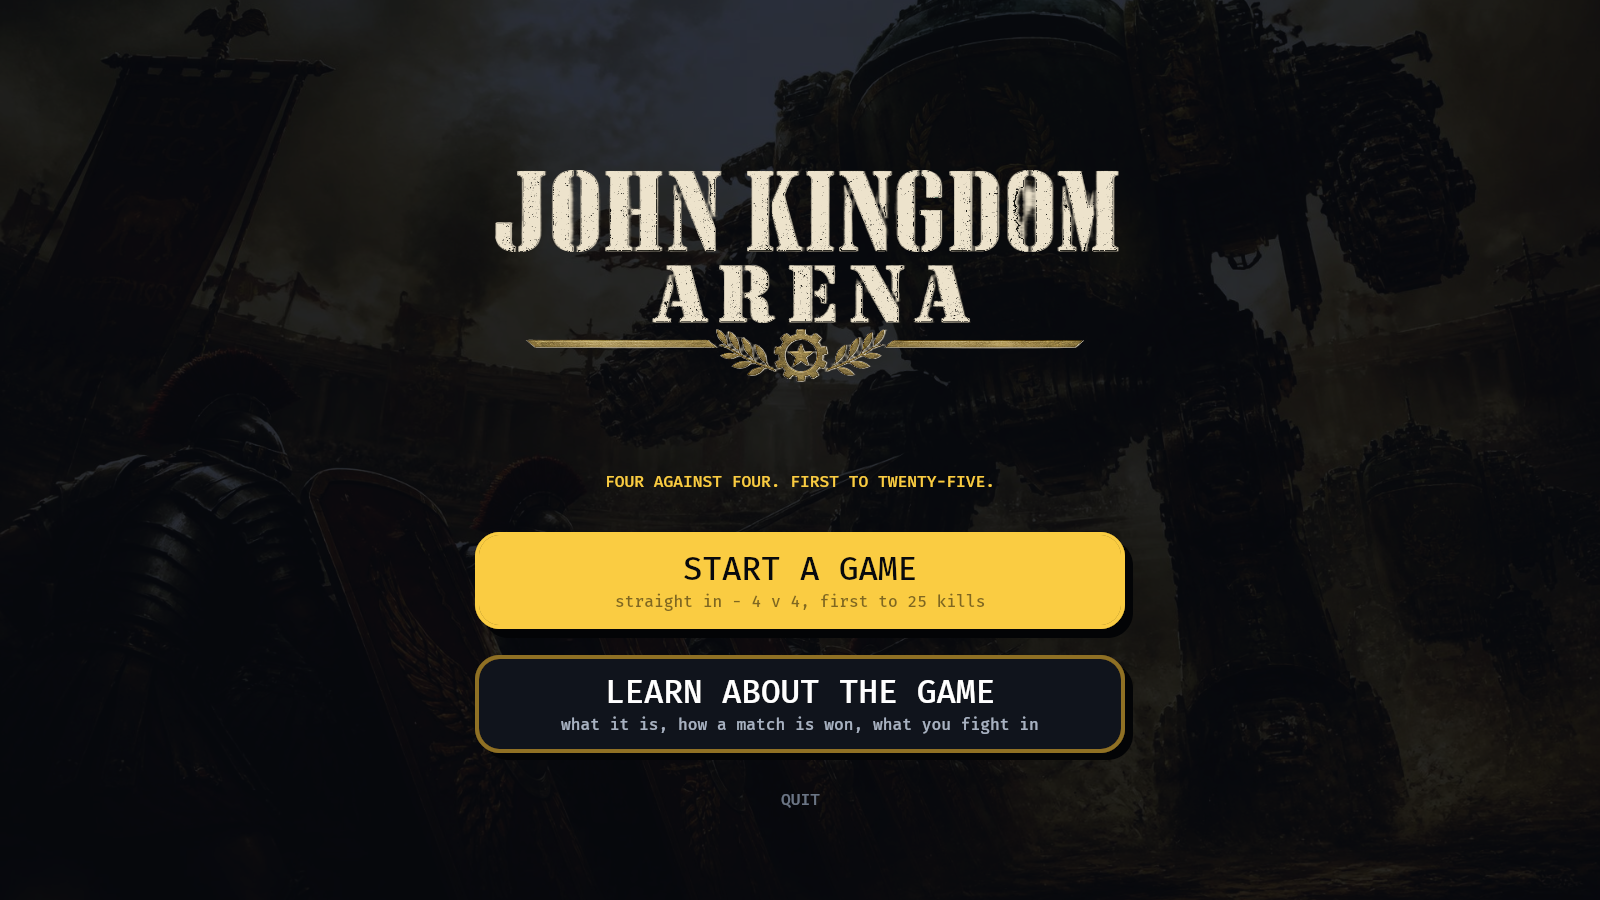
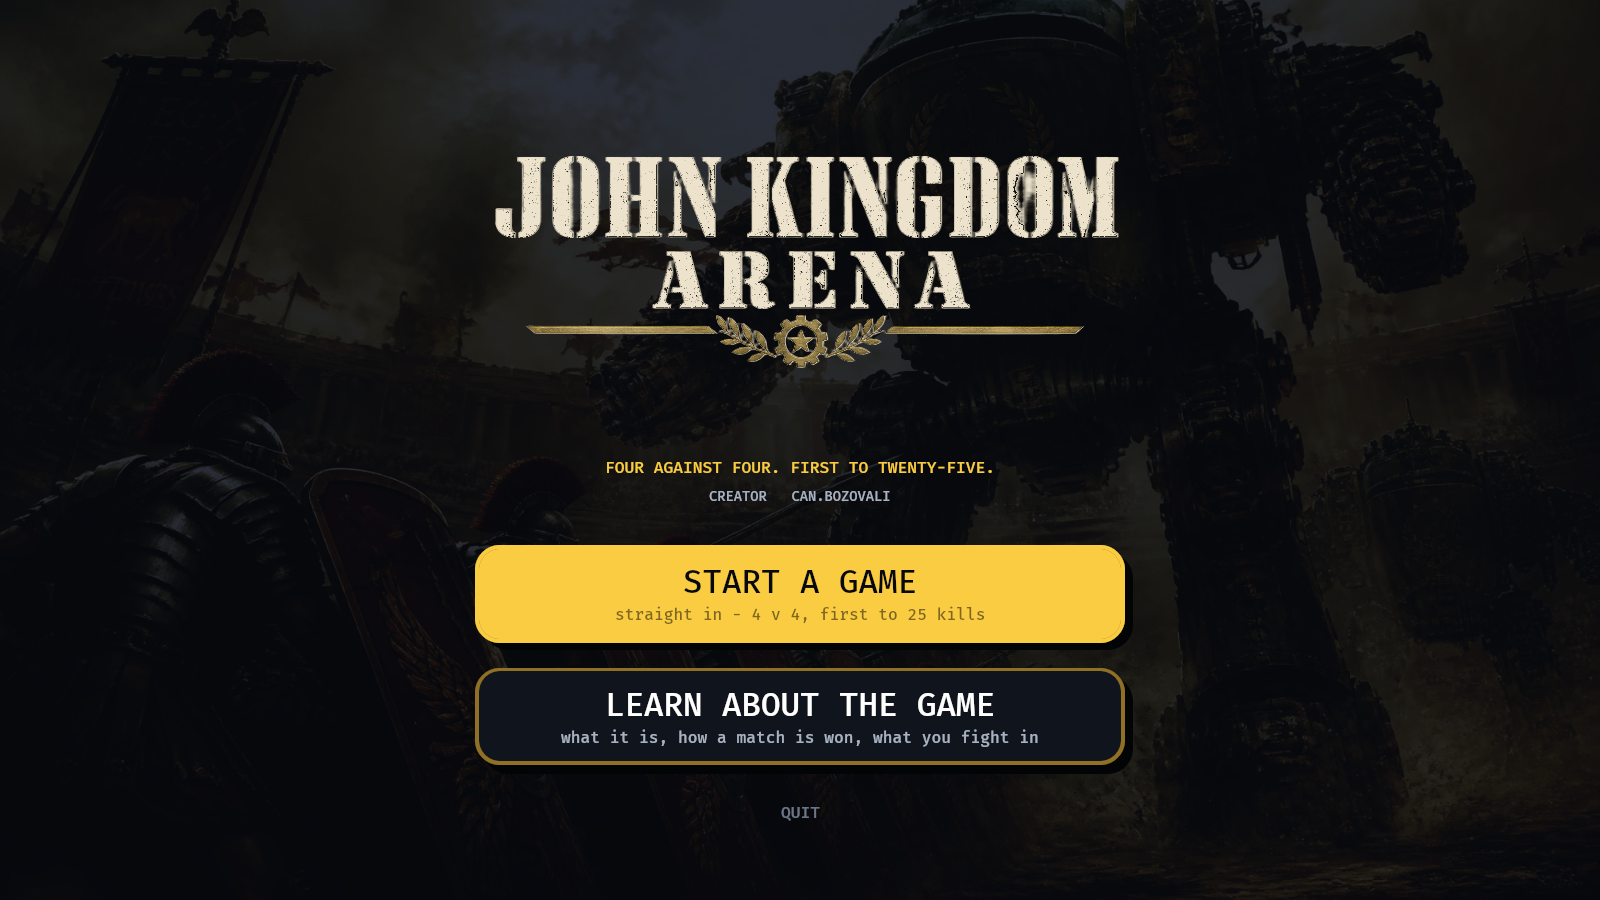
The title screen says who made it
Owner asked for a creator credit under the tagline. CREATOR_CREDIT is a const so the screen reads data rather than a literal buried in a spawn call, the same reason LEARN_CARDS is a table.

Set at T_MICRO in INK_SOFT, not at the tagline's T_SUB in GOLD: nothing on this surface may out-shout the two buttons, and the credit belongs WITH the tagline rather than competing with it. The tagline's bottom margin drops U8 to U2 so the pair reads as one block and the gap sits under both.

Uppercase to match every other word on the screen; the name's written form is Can.Bozovali. Photographed from the shipped binary - handback/brief-vii/frontend/01-title.png, taken by JK_CAPTURE=frontend against this build, not mocked up.

448 pass. The single red test is another lane's uncommitted spear-charge work in sim.rs, which is not in this commit.

Changed region(s): [[0.2812, 0.5911, 0.7188, 0.9022], [0.3125, 0.1556, 0.7188, 0.4356], [0.375, 0.4978, 0.625, 0.56]]

diff --git a/engine/crates/jk_tdm/src/frontend.rs b/engine/crates/jk_tdm/src/frontend.rs
@@ -198,6 +198,14 @@ pub const ART_SCRIM_A: f32 = 0.86;
 /// rather than flashy."
 pub const FADE_S: f32 = 0.24;
 
+/// The creator credit on the title screen, in the owner's own words.
+///
+/// A const, so it is data the title screen reads rather than a literal
+/// buried in a spawn call - the same reason `LEARN_CARDS` is a table.
+/// Uppercase because every other word on this surface is; the name's
+/// written form is `Can.Bozovali`.
+pub const CREATOR_CREDIT: &str = "CREATOR   CAN.BOZOVALI";
+
 // ---- what a click does ---------------------------------------------------
 
 /// Every front-end action, in one enum.
@@ -761,6 +769,18 @@ fn open_title(
                 Text::new("FOUR AGAINST FOUR. FIRST TO TWENTY-FIVE.".to_string()),
                 TextFont { font_size: T_SUB, ..default() },
                 TextColor(palette::GOLD),
+                // Was U8. The credit below is part of the same block now,
+                // so the gap belongs UNDER the pair, not between them.
+                Node { margin: UiRect::bottom(Val::Px(U2)), ..default() },
+            ));
+            // The creator credit, where the owner asked for it. Smaller and
+            // quieter than the tagline on purpose: it sits with the line
+            // above rather than competing with it, and nothing on this
+            // screen may out-shout the two buttons.
+            col.spawn((
+                Text::new(CREATOR_CREDIT.to_string()),
+                TextFont { font_size: T_MICRO, ..default() },
+                TextColor(palette::INK_SOFT),
                 Node { margin: UiRect::bottom(Val::Px(U8)), ..default() },
             ));
             hero_column(col, HERO_W, |c| {
